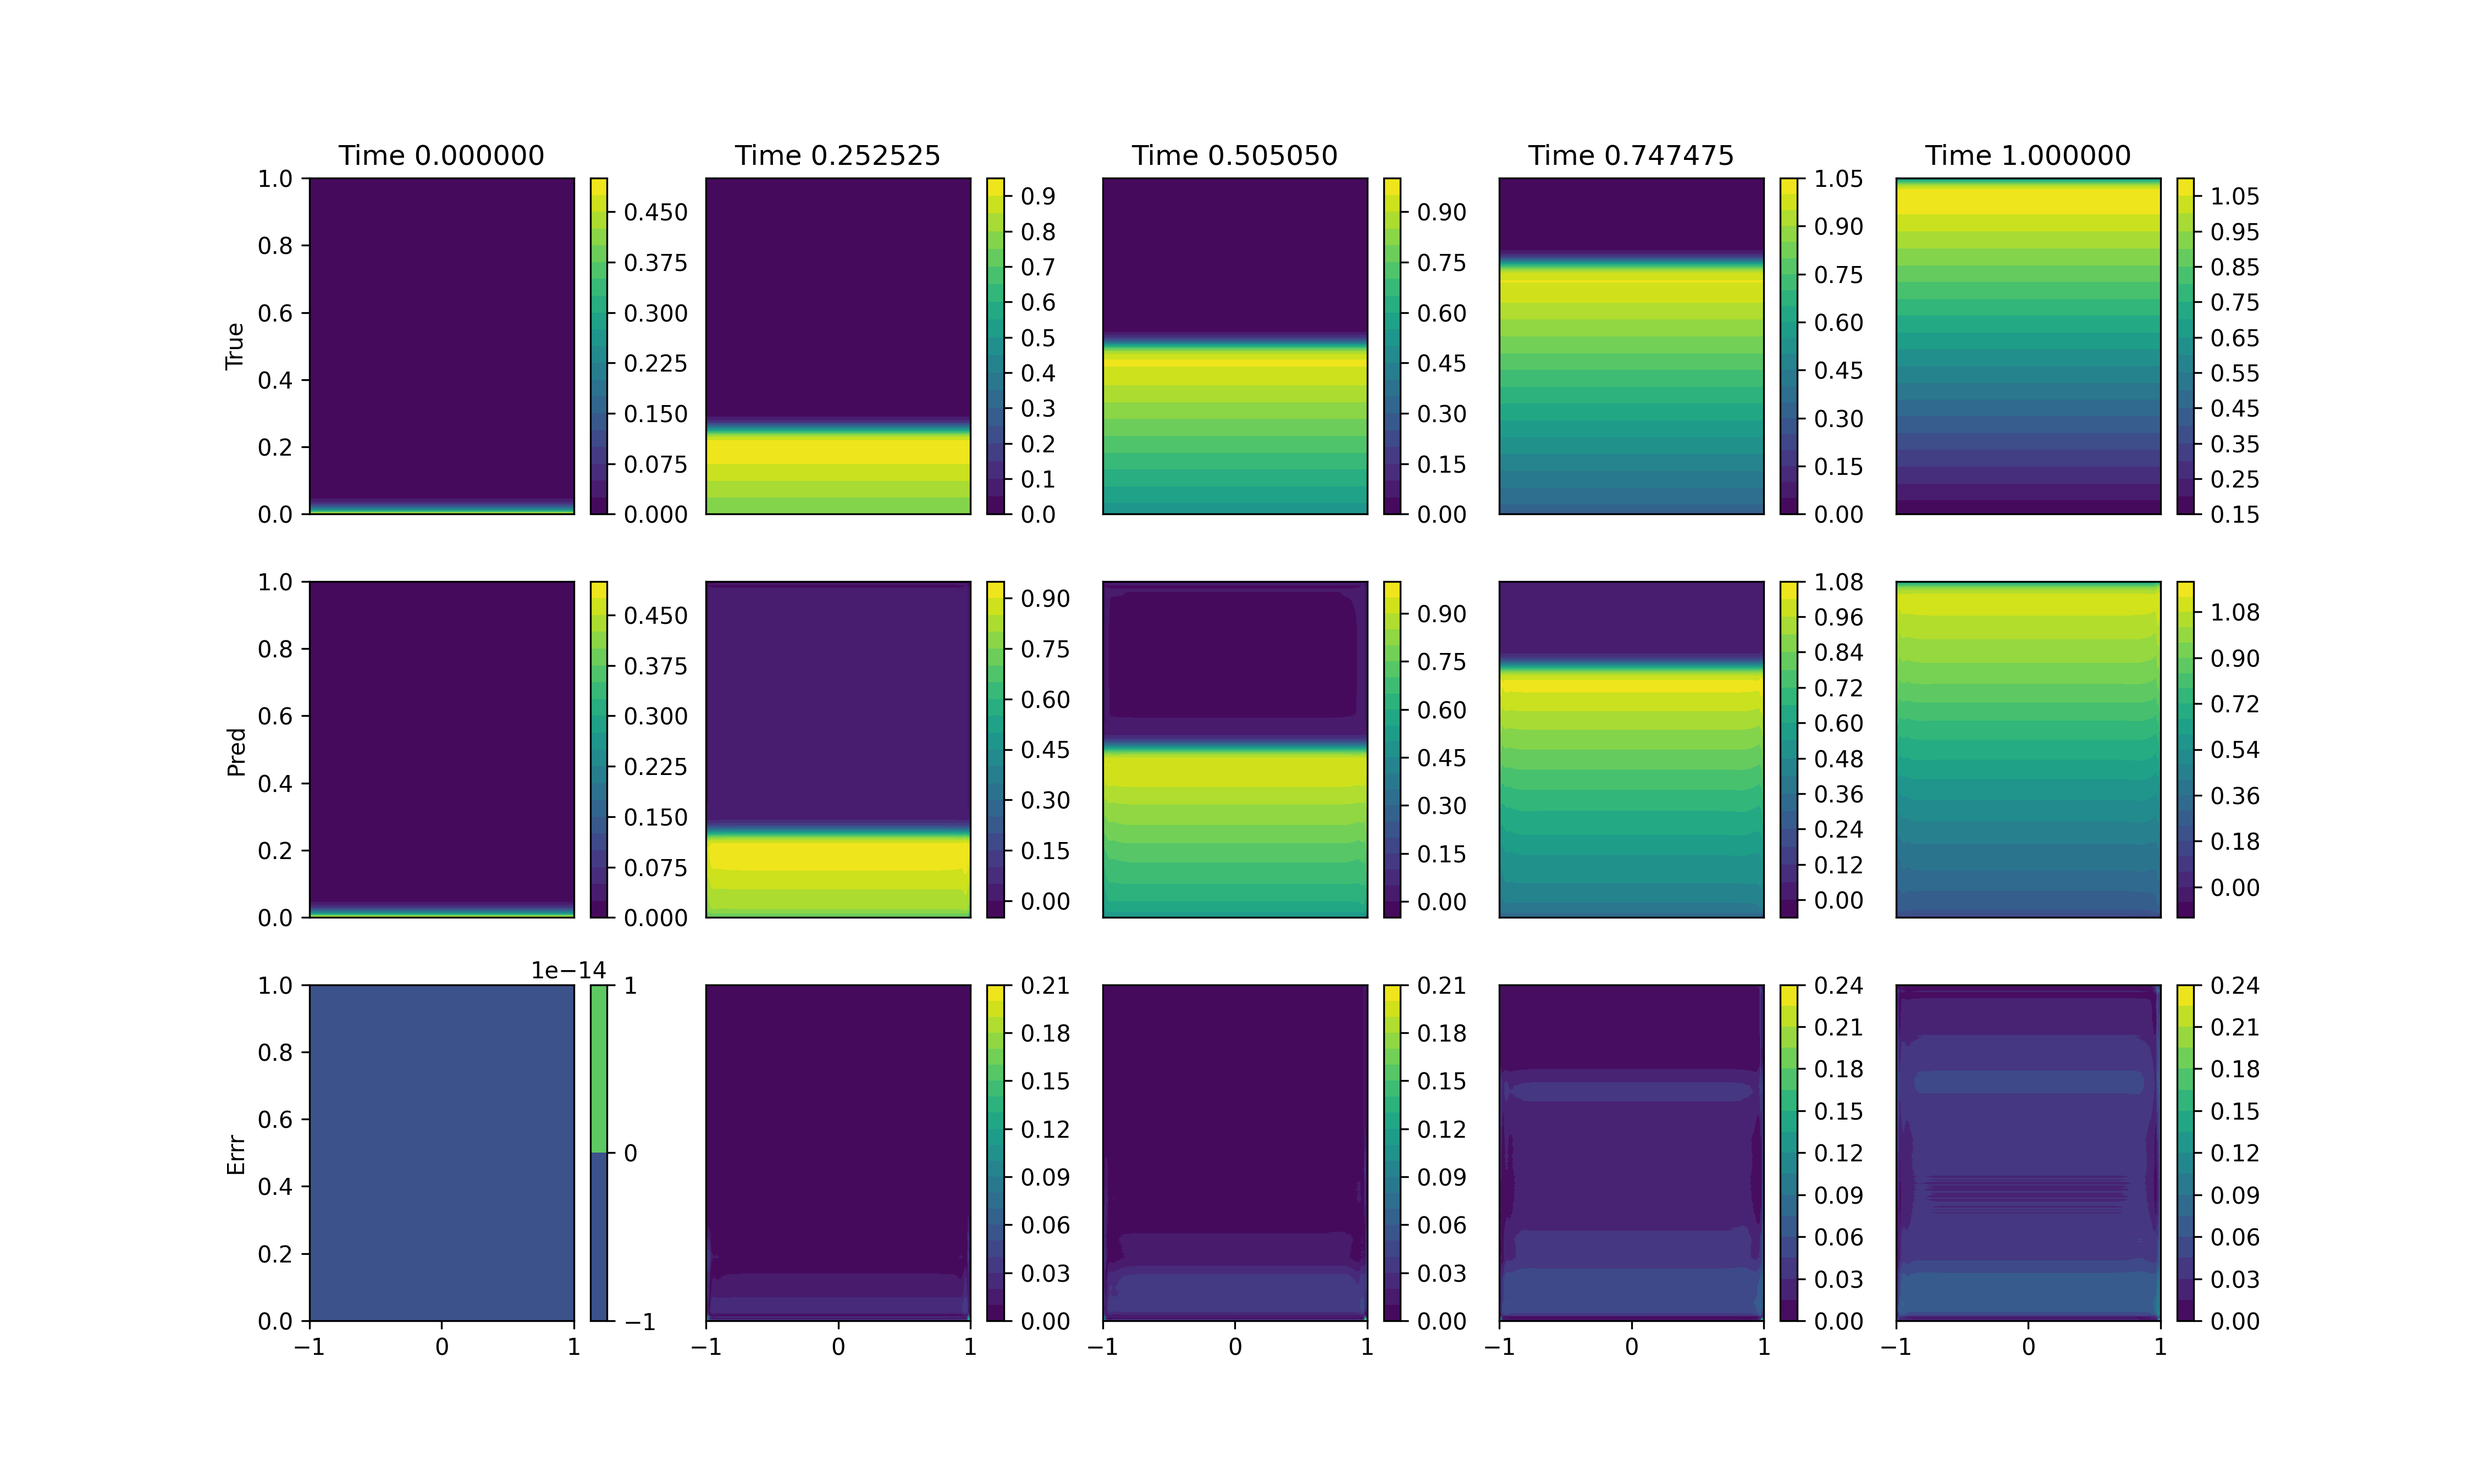
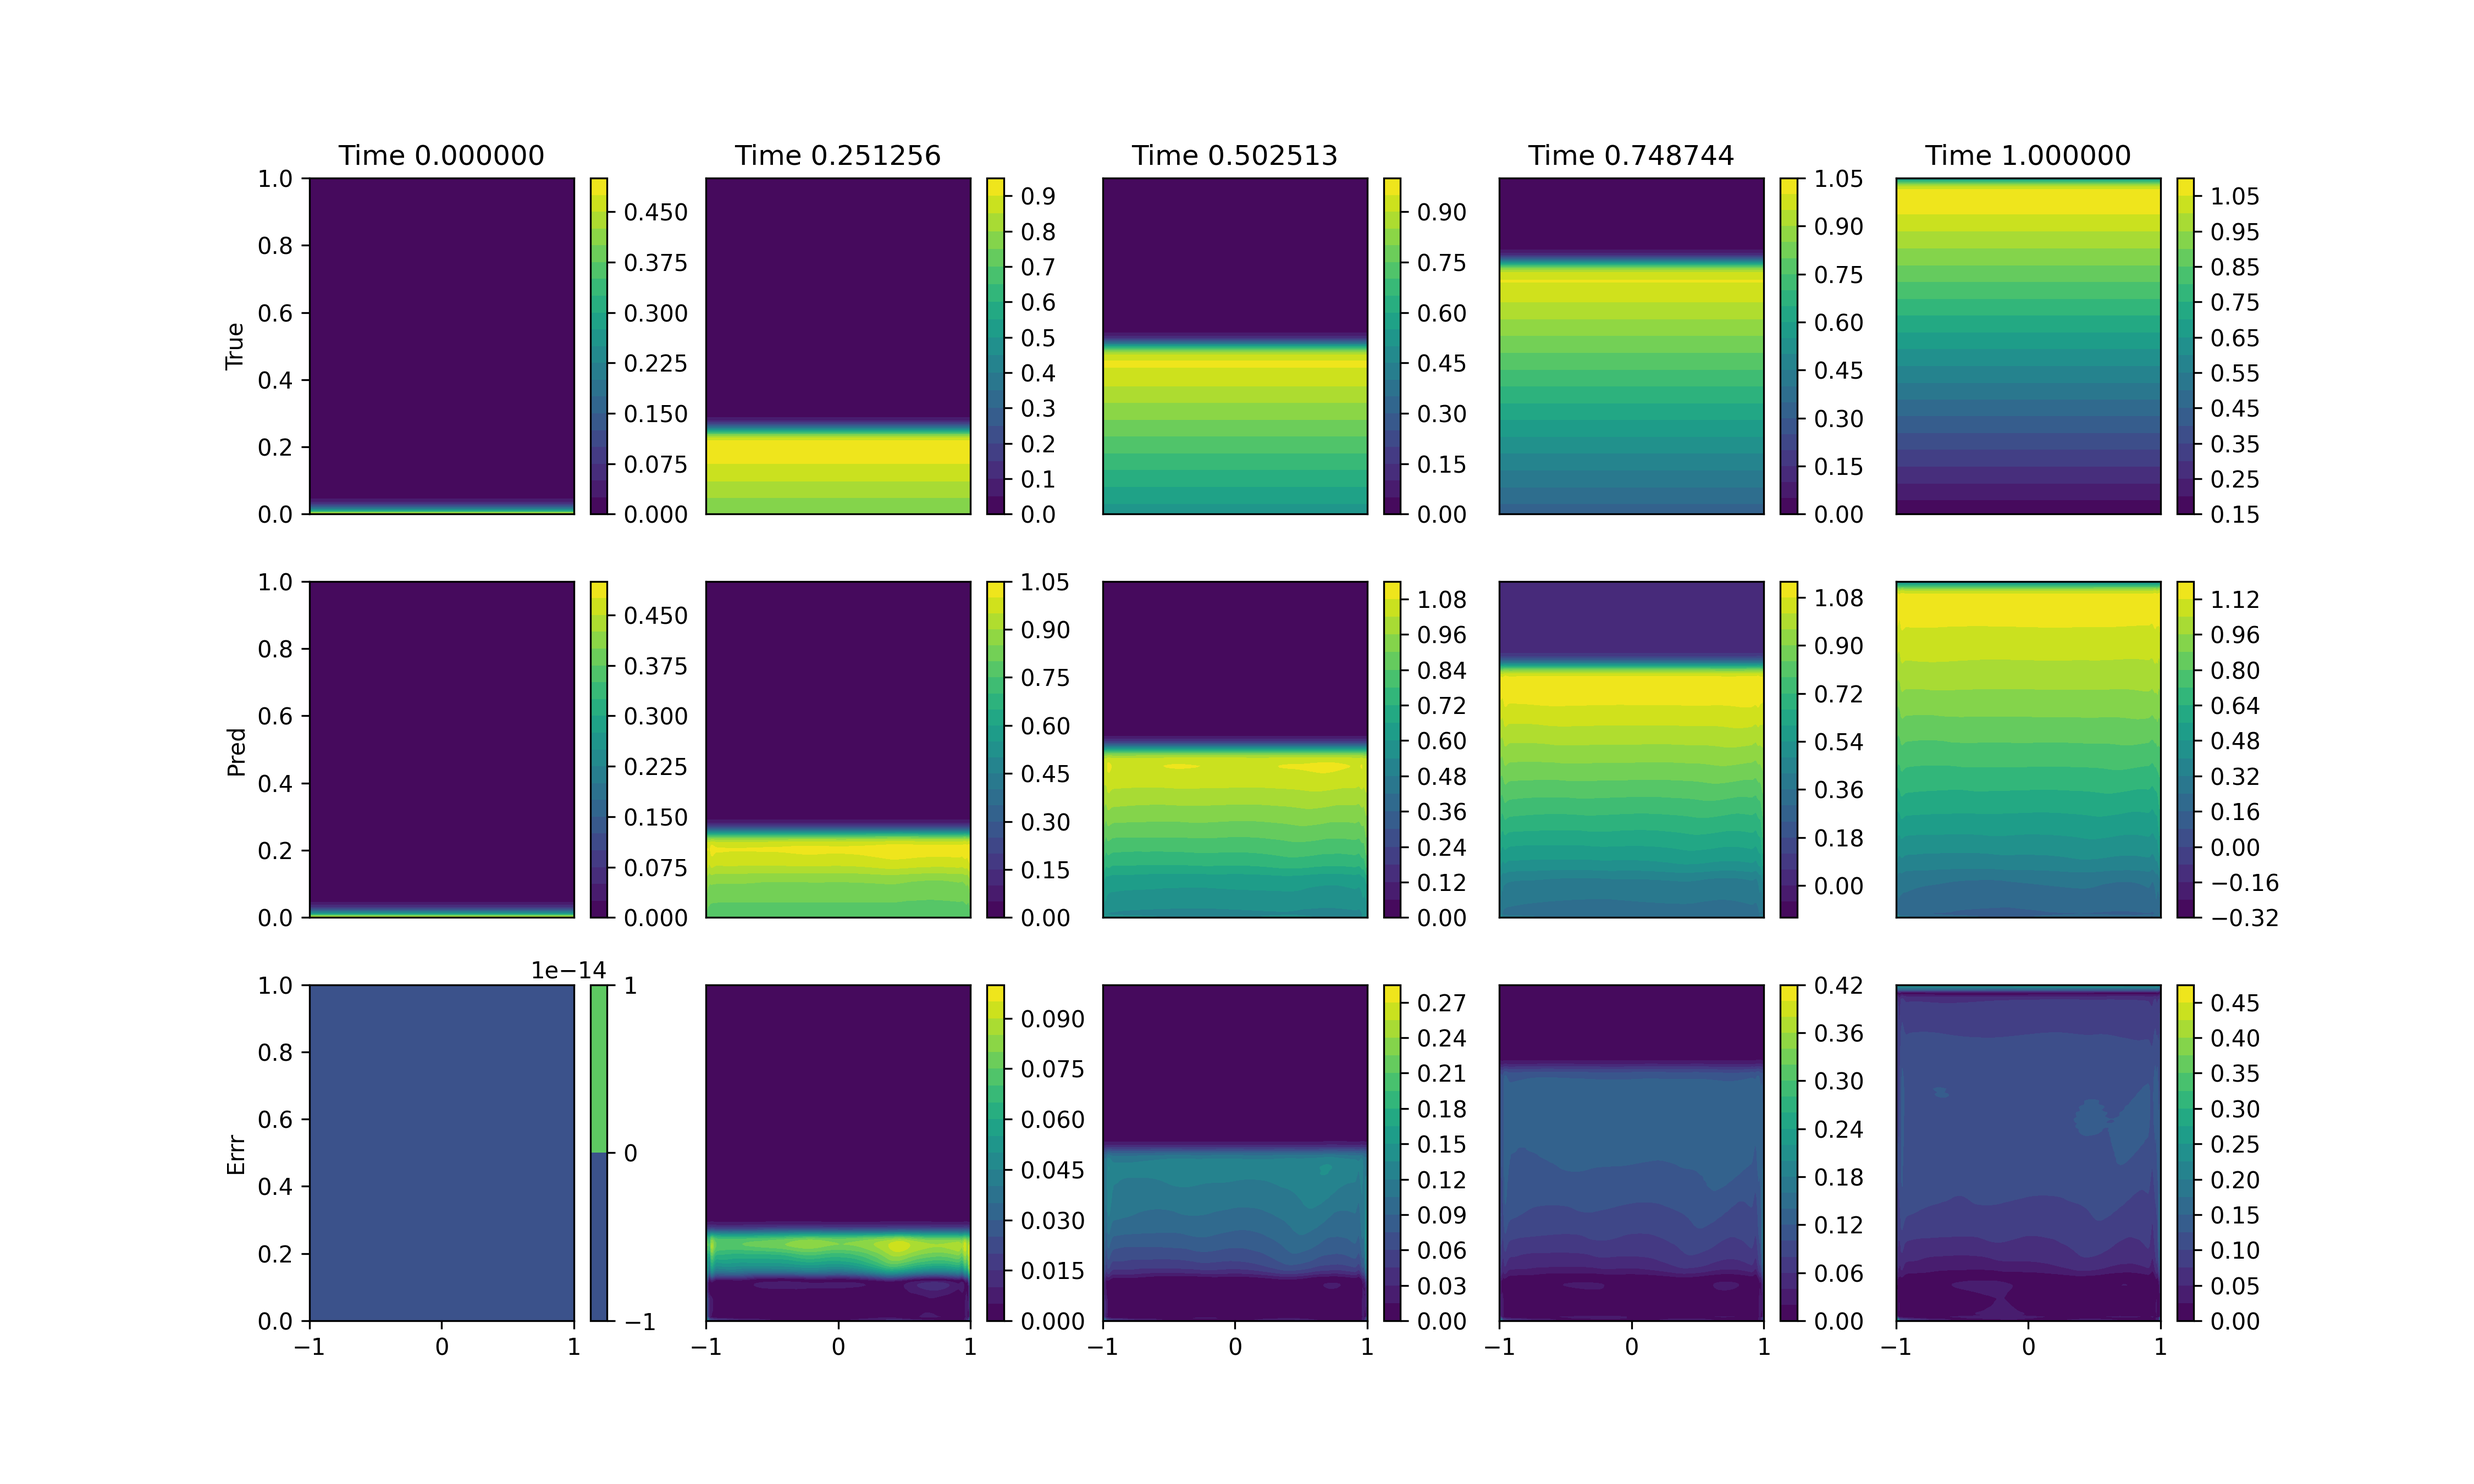
updated resultsa

diff --git a/sandbox/__main__.py b/sandbox/__main__.py
@@ -18,10 +18,9 @@ import mlutils
 def train_loop(model, data, lrs=None, nepochs=None, **kw):
 
     if lrs is None:
-        lrs = [1e-3, 5e-4, 1e-4, 5e-5, 1e-5]
-
+        lrs = [1e-3, 5e-4, 1e-4, 5e-5, 1e-5, 5e-6]
     if nepochs is None:
-        nepochs = [2, 5, 10, 10, 10]
+        nepochs = [5, 10, 20, 20, 10, 5]
 
     assert len(lrs) == len(nepochs)
 
@@ -126,11 +125,10 @@ def train_cnn_nextstep(device, outdir, resdir, name, blend=False, train=True):
         nw1 = torch.inf
         nw2 = torch.inf
 
-    nx, nz, nt = 256, 256, 100
+    nx, nz, nt = 256, 256, 200
     shape = sandbox.Shape(nx, nz, nt, nw1, nw2, blend=blend)
     data = sandbox.makedata(
-        shape, inputs="xztT", outputs="T", datatype="image-nextstep",
-        mask="finaltime",
+        shape, inputs="xztT", outputs="T", datatype="image-nextstep", mask="finaltime",
     )
 
     # MODEL
@@ -139,7 +137,7 @@ def train_cnn_nextstep(device, outdir, resdir, name, blend=False, train=True):
 
     # TRAIN
     if train:
-        train_loop(model, data, device=device, _batch_size=1)
+        train_loop(model, data, device=device, _batch_size=2)
         torch.save(model.to("cpu").state_dict(), modelfile)
 
     # VISUALIZE
@@ -169,8 +167,8 @@ def train_cnn_nextstep(device, outdir, resdir, name, blend=False, train=True):
         #     process=process, save=save, device=device,
         # )
 
+        K = nt // 8
         preds2 = []
-        K = 10
         for k in range(K):
             preds2.append(xztT[k, -1].unsqueeze(0))
         for k in range(K-1, xztT.shape[0]):
@@ -438,7 +436,7 @@ if __name__ == "__main__":
     # train_cnn_nextstep(device, outdir, resdir, "hourglass", train=False)
 
     # train_cnn_nextstep(device, outdir, resdir, "alldomain", blend=True, train=False)
-    train_cnn_nextstep(device, outdir, resdir, "hourglass", blend=True, train=False)
+    # train_cnn_nextstep(device, outdir, resdir, "hourglass", blend=True, train=False)
 
     # train_cnn(device, outdir, resdir, "alldomain")
     # train_cnn(device, outdir, resdir, "hourglass")

diff --git a/sandbox/shape.py b/sandbox/shape.py
@@ -235,7 +235,7 @@ class Shape:
         return fig
 
     @torch.no_grad()
-    def plot(self, nt_plt = 5):
+    def plot(self, nt_plt = 5, animate = False):
         _, (mask, temp, disp, sdf) = self.fields_dense()
 
         # equivalent to `x.detatch().cpu().numpy()`
@@ -275,9 +275,13 @@ class Shape:
         #========================#
         fig.tight_layout()
 
-        # ani = anim.FuncAnimation(
-        #     fig, update, frames=range(self.nt), interval=50
-        # )
+        if animate:
+            # ani = anim.FuncAnimation(
+            #     fig, update, frames=range(self.nt), interval=50
+            # )
+            pass
+        #
+
 
         return fig
 
